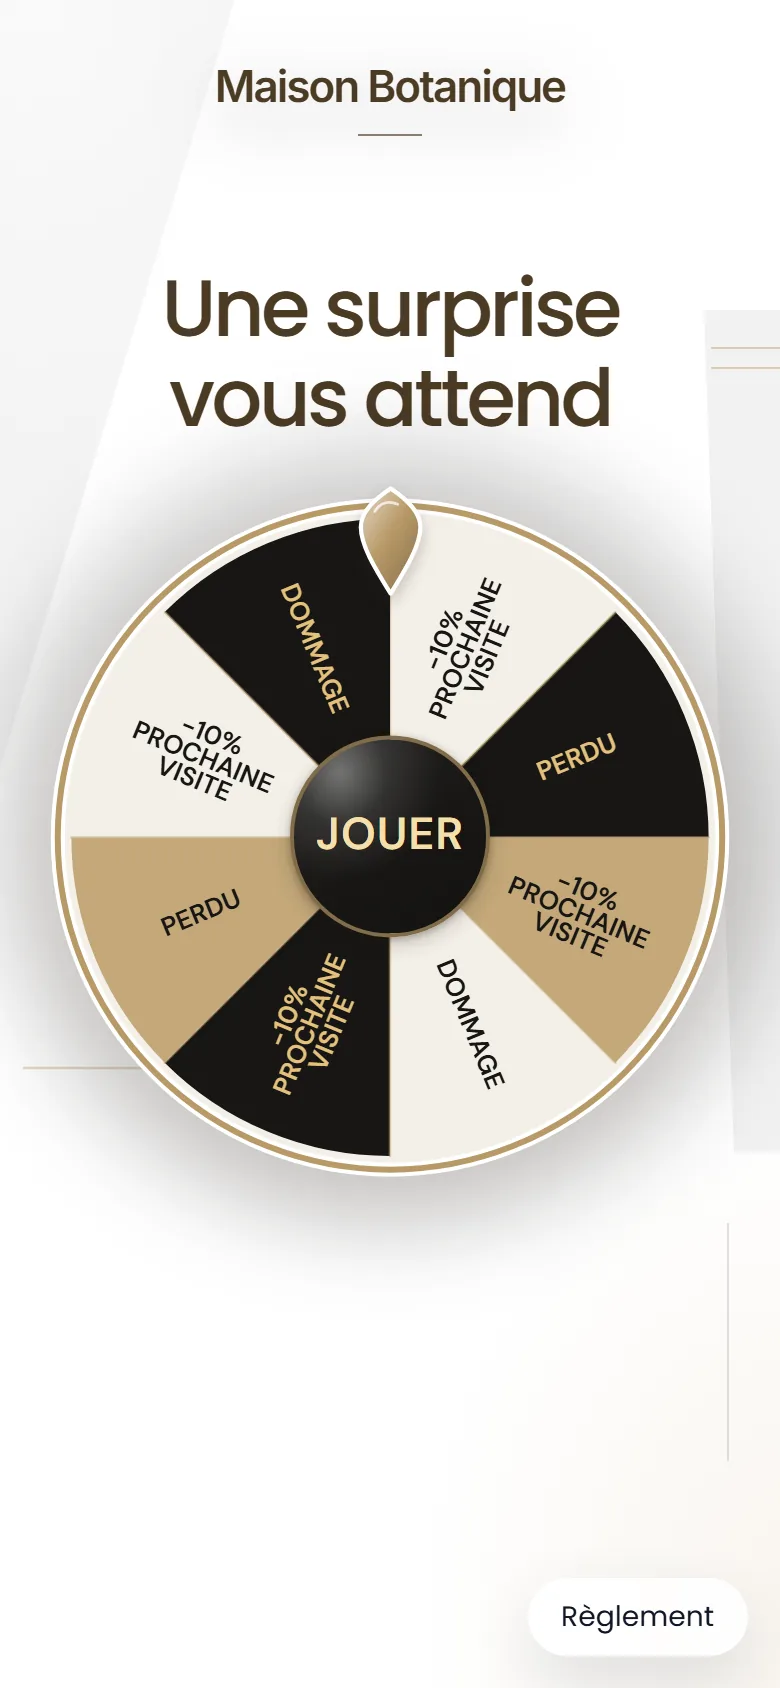
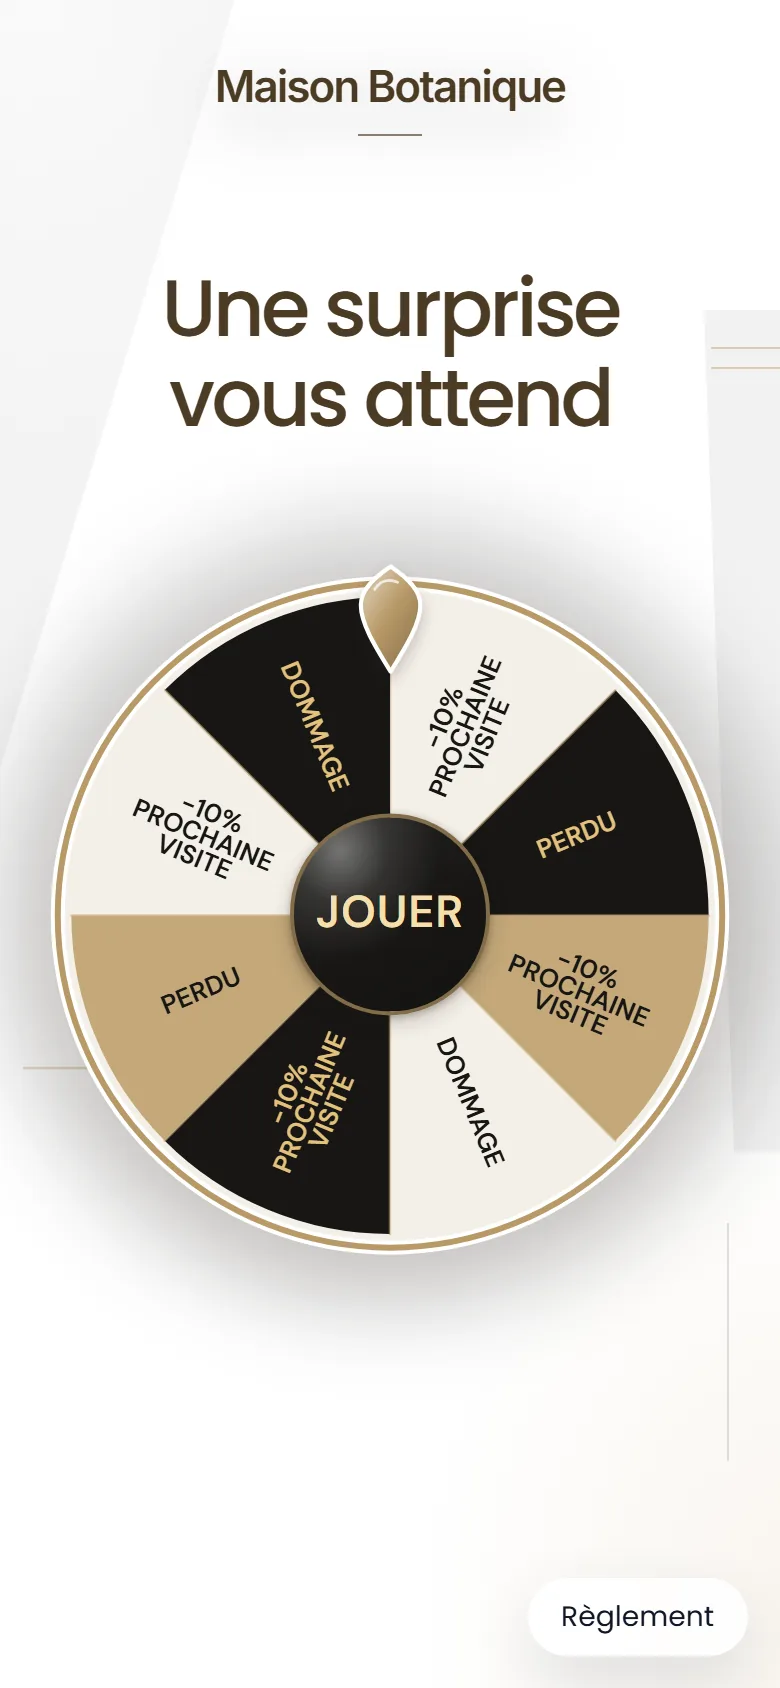
Separate marketing wheel visuals from their headings

Changed region(s): [[0.0615, 0.2464, 0.9538, 0.8009]]

diff --git a/apps/web-app/e2e/fixtures/template-rendering.tsx b/apps/web-app/e2e/fixtures/template-rendering.tsx
@@ -74,7 +74,7 @@ export function TemplateRenderingProof({ mode = "preview", templateId = "classic
       logo: { ...halloweenFixture.presentation.logo, textColor: color, marginBottomPx: business ? 64 : 20 },
       heading: { ...halloweenFixture.presentation.heading, textColor: color, fontSizePx: business === "retail" ? 34 : 40, fontFamily: font ?? "poppins" as const },
       wheel: wheelPaletteForTemplate(templateId, halloweenFixture.presentation.wheel),
-      layout: { ...halloweenFixture.presentation.layout, templateId, blockSpacingPx: 25,
+      layout: { ...halloweenFixture.presentation.layout, templateId, blockSpacingPx: business && !scratch ? 64 : 25,
         scratchSubtitle: "Découvrez votre cadeau", wheelSubtitle: secondary ?? "" },
     },
   };
